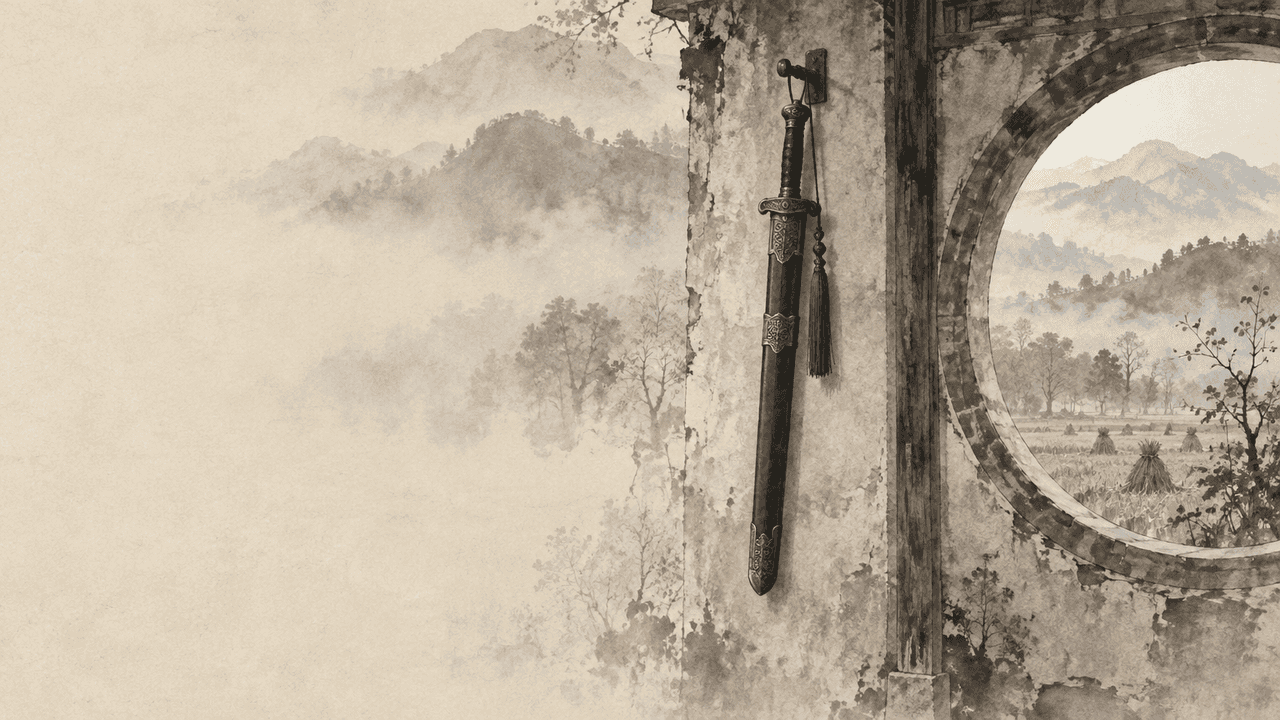
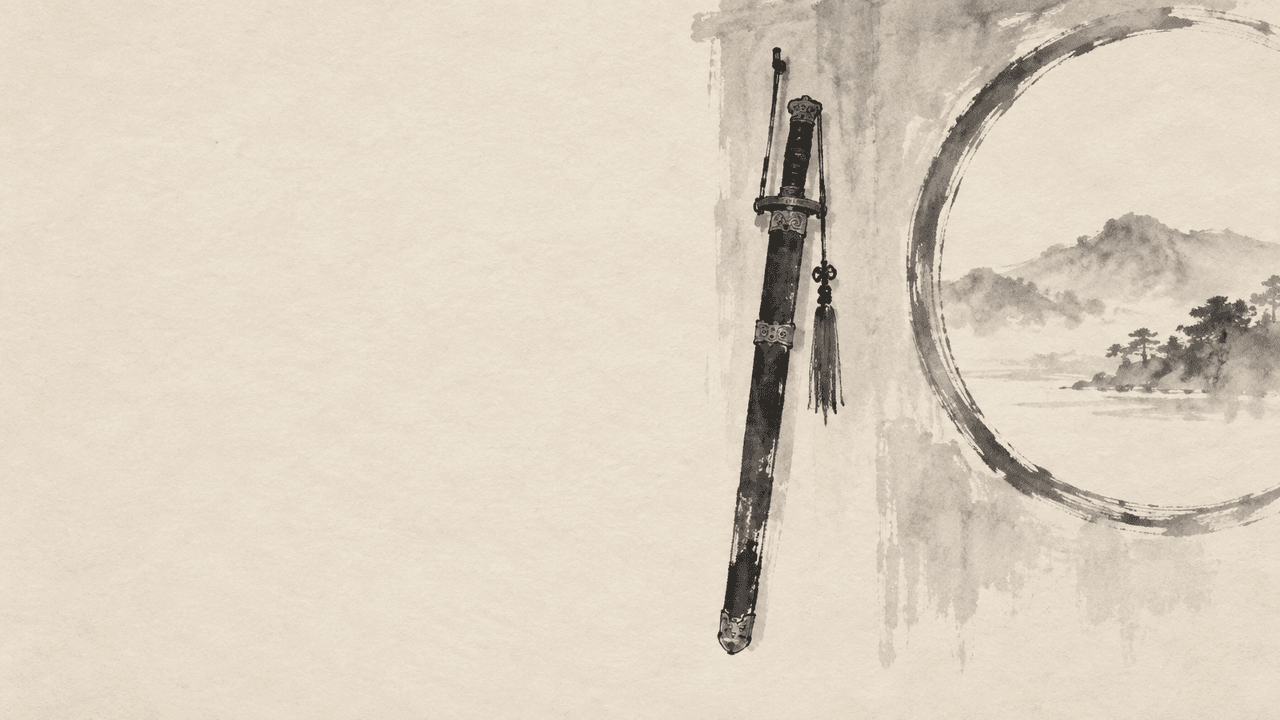
Day Master page: the 30 D1-D3 paintings (F2 xieyi), set into the cards' paper
All ten stems painted at F2 (owner ruling on the Blade fidelity test). Masters
in Design/Assets/DayMaster (README), app copies in concept-arts/stems/dm under
300 KB each. InkArt multiplies each painting onto the cardstock after lifting
its paper to white, with masked edges: D1 bleeds off the top of The sign, D2 is
a column the nature text flows around, D3 closes the edge card. Dev only.

Claude-Session: https://claude.ai/code/session_01RJRm3y3yvdzEnvZoX5yTx7

diff --git a/Elementum_App/src/components/journey/MergedViews.jsx b/Elementum_App/src/components/journey/MergedViews.jsx
@@ -49,7 +49,9 @@ export const plateOf = (stem) => `/concept-arts/stems/proc/${STEM_PY[stem]}-${ST
 
 // The Day Master journey's art slots (A1–A4 A, 2026-10-27): D1–D3 per stem and
 // the 25 pair paintings (N1 brief). Each renders its file by path once it lands
-// and is a quiet frame until then.
+// and is a quiet frame until then. D1–D3 are painted (F2 xieyi, 2026-10-27) and
+// sit in the card's paper (InkArt): multiplied onto the cardstock, edges masked,
+// D1 bleeding off the top, D2 a column the text flows around, D3 closing the card.
 const dmArt = (stem, n) => `/concept-arts/stems/dm/${STEM_PY[stem]}-d${n}.png`;
 const pairArt = (stem, el) => `/concept-arts/pairs/pair_${STEM_ELK[stem]}_${el}.png`;
 function ArtSlot({ src, ratio, label }) {
@@ -59,6 +61,12 @@ function ArtSlot({ src, ratio, label }) {
       {miss ? <span className="dmp-artl">{label}</span> : <img src={src} alt="" loading="lazy" onError={() => setMiss(true)} />}
     </span>
   );
+}
+
+function InkArt({ src, kind }) {
+  const [miss, setMiss] = useState(false);
+  if (miss) return null;
+  return <img className={`dmp-ink ${kind}`} src={src} alt="" loading="lazy" onError={() => setMiss(true)} />;
 }
 
 function TyChip({ k, cls = '', doors, stamp, children }) {
@@ -101,15 +109,17 @@ export function DayMasterPage({ m, g, dm, Use, InkDot, onRun, onCircle, onReplay
         {m.manifesto ? <p className="dmp-mani">{m.manifesto}</p> : null}
       </div>
       {dm.overview ? (
-        <div className="cardstock dmp-sec"><span className="mg-lab">The sign</span><ArtSlot src={dmArt(m.stem, 1)} ratio="16 / 9" label="D1 · the sign" /><p className="dmp-body">{dm.overview}</p></div>
+        <div className="cardstock dmp-sec dmp-inked"><InkArt src={dmArt(m.stem, 1)} kind="sign" /><span className="mg-lab">The sign</span><p className="dmp-body">{dm.overview}</p></div>
       ) : null}
       {dm.nature || dm.inscription ? (
         <div className="cardstock dmp-sec">
           <span className="mg-lab">Your nature</span>
-          <ArtSlot src={dmArt(m.stem, 2)} ratio="4 / 5" label="D2 · your nature" />
-          {/* the inscription opens the portrait (owner 2026-10-27: "What people notice is just an opener to Your Nature") */}
-          {dm.inscription ? <p className="dmp-ins">{dm.inscription}</p> : null}
-          {dm.nature ? <p className="dmp-body">{dm.nature}</p> : null}
+          {/* the inscription opens the portrait (owner 2026-10-27: "What people notice is just an opener to Your Nature"); the D2 column floats beside both */}
+          <div className="dmp-flow">
+            <InkArt src={dmArt(m.stem, 2)} kind="nature" />
+            {dm.inscription ? <p className="dmp-ins">{dm.inscription}</p> : null}
+            {dm.nature ? <p className="dmp-body">{dm.nature}</p> : null}
+          </div>
           {dm.claims?.length ? <><span className="mg-lab dmp-sub">What people notice</span><ul className="dmp-claims">{dm.claims.map((c) => <li key={c}>{c}</li>)}</ul></> : null}
         </div>
       ) : null}
@@ -149,7 +159,7 @@ export function DayMasterPage({ m, g, dm, Use, InkDot, onRun, onCircle, onReplay
         </div>
       ) : null}
       {dm.edge ? (
-        <div className="cardstock dmp-sec"><span className="mg-lab">How your edge is built</span><ArtSlot src={dmArt(m.stem, 3)} ratio="1 / 1" label="D3 · your edge" /><p className="dmp-body">{dm.edge}</p></div>
+        <div className="cardstock dmp-sec dmp-inked"><span className="mg-lab">How your edge is built</span><p className="dmp-body">{dm.edge}</p><InkArt src={dmArt(m.stem, 3)} kind="edge" /></div>
       ) : null}
       {t ? (
         <div className="cardstock dmp-sec">

diff --git a/Elementum_App/src/components/journey/merged.css b/Elementum_App/src/components/journey/merged.css
@@ -287,3 +287,25 @@ button.ty-cc{ cursor:pointer; }
 .jny .dmp-ftx .dmp-art{ max-width:220px; margin:4px 0 4px; }
 .jny .dmp-go{ width:14px; height:14px; margin-left:auto; align-self:center; color:var(--bronzeDark); flex:none; }
 .jny .dmp-fey{ display:flex; align-items:center; gap:6px; }
+
+/* The painted Day Master journey (F2 xieyi, owner 2026-10-27): each painting
+   sits in the card's own paper. Multiply drops the painting's rice paper into
+   the cardstock so only the ink shows; masks dissolve every edge. */
+.jny .dmp-ink{ display:block; mix-blend-mode:multiply; pointer-events:none; user-select:none; filter:brightness(1.14) contrast(1.18) saturate(1.1); }
+/* the filter lifts the painting's paper to white before the multiply, so the card's own paper shows through and only the ink lands */
+.jny .dmp-inked{ overflow:hidden; }
+/* D1 the sign: bleeds off the card's top and sides, the label and text begin in its fading foot */
+.jny .dmp-ink.sign{ width:calc(100% + 30px); max-width:none; aspect-ratio:16 / 9; object-fit:cover; margin:-14px -15px -38px; border-radius:16px 16px 0 0;
+  -webkit-mask-image:linear-gradient(to bottom,#000 52%,transparent 96%); mask-image:linear-gradient(to bottom,#000 52%,transparent 96%); }
+.jny .dmp-inked > .mg-lab{ position:relative; }
+/* D2 your nature: a tall column off the card's right edge, the inscription and the portrait flowing around it */
+.jny .dmp-flow{ display:block; }
+.jny .dmp-flow::after{ content:""; display:block; clear:both; }
+.jny .dmp-flow > p + p{ margin-top:8px; }
+.jny .dmp-ink.nature{ float:right; width:46%; aspect-ratio:4 / 5; object-fit:cover; margin:-6px -15px 4px 10px; shape-outside:inset(0 0 0 14%);
+  -webkit-mask-image:linear-gradient(to left,#000 62%,transparent),linear-gradient(to top,transparent 2%,#000 30%); -webkit-mask-composite:source-in;
+  mask-image:linear-gradient(to left,#000 62%,transparent),linear-gradient(to top,transparent 2%,#000 30%); mask-composite:intersect; }
+/* D3 your edge: closes the card, rising out of the bottom-right corner under the last line */
+.jny .dmp-ink.edge{ align-self:flex-end; width:60%; aspect-ratio:1 / 1; object-fit:cover; margin:-18px -15px -14px 0; border-radius:0 0 16px 0;
+  -webkit-mask-image:linear-gradient(to bottom,transparent 2%,#000 34%),linear-gradient(to right,transparent 2%,#000 36%); -webkit-mask-composite:source-in;
+  mask-image:linear-gradient(to bottom,transparent 2%,#000 34%),linear-gradient(to right,transparent 2%,#000 36%); mask-composite:intersect; }

diff --git a/Design/Library/Design_Pass_2026-10/D1-D3_Day_Master_Illustrations_Brief.md b/Design/Library/Design_Pass_2026-10/D1-D3_Day_Master_Illustrations_Brief.md
@@ -70,3 +70,13 @@ Shared prompt prefix: the N1 prefix, with `{RATIO}` in place of "3:2 landscape" 
 ## Test paintings (2026-10-27)
 
 The owner asked for real paintings in place of the tinted frames. A test of 庚 (D-geng-1, 2, 3) was painted with Figma's image generator, model gpt-image-2.5-sunburst. That model matched the house heroes; gemini-3.1-flash-image gave a flat pen sketch. The test is in `public/concept-arts/stems/dm/geng-d{1,2,3}.png`, cover-cropped to spec and palette-compressed under 300 KB. The Figma file is "Elementum · Day Master illustrations (D1–D3)". The prompt adds to the N1 prefix: "masterful … rich layered ink, dark confident strokes for the subject, pale washes and drifting mist, dry-brush texture … museum-quality".
+
+## Painted (2026-10-27): all 30 at F2
+
+The owner compared four fidelity levels on the Blade (F0 detailed, F1 loose brush, F2 xieyi freehand, F3 Zen minimal) and ruled **F2**, then "paint the rest". All 30 are painted with gpt-image-2.5-sunburst, using this prefix:
+
+> Traditional Chinese xieyi freehand ink painting on plain warm rice paper: spontaneous, expressive brushwork, each form suggested in a few bold strokes, ink bleeding softly into the paper, dry-brush flicks, large areas of untouched paper. Black-and-grey ink with a single faint wash of {pale element colour}. {Wide landscape, one-corner composition | Tall portrait | Square}, subject off-centre, most of the paper empty. Subject: {subject}. No people, no text, no calligraphy, no seal, no border.
+
+- **Masters:** `Design/Assets/DayMaster/` (README there).
+- **App copies:** `Elementum_App/public/concept-arts/stems/dm/`.
+- **Known weak painting:** D-geng-3. The branch only touches the blade's tip instead of bowing against its edge. It took two tries, and a repaint is open.

diff --git a/Design/Assets/DayMaster/README.md b/Design/Assets/DayMaster/README.md
@@ -1,0 +1,16 @@
+# Day Master page paintings (D1–D3 × 10 stems)
+
+The 30 painted masters for the Day Master reading page, one set of three per Day Master stem. Painted 2026-10-27 at fidelity F2 (xieyi freehand), as ruled by the owner on the Blade Fidelity comparison.
+
+| File | Card on the page | Ratio | From the station field |
+|---|---|---|---|
+| `dm-{py}-d1.jpg` | 2 · The sign | 16:9 | `dm_overview` |
+| `dm-{py}-d2.jpg` | 3 · Your nature | 4:5 | `inscription` and `yourNature_desc` |
+| `dm-{py}-d3.jpg` | 5 · How your edge is built | 1:1 | `dm_mechanism` |
+
+`{py}` is the stem's pinyin: jia 甲, yi 乙, bing 丙, ding 丁, wu 戊, ji 己, geng 庚, xin 辛, ren 壬, gui 癸.
+
+- **These are masters**, at the size the model painted them (1536×864, 1024×1280, 1024×1024), saved as JPG at quality 90. The lossless originals are in the Figma file "Elementum · Day Master illustrations (D1–D3)".
+- **The app copies** are in `Elementum_App/public/concept-arts/stems/dm/{py}-d{n}.png`. They are cover-cropped to 1280×720, 880×1100 and 1000×1000, and palette-compressed under 300 KB each. Regenerate them from these masters, never by editing them in place.
+- **Subjects and prompts** are in `Design/Library/Design_Pass_2026-10/D1-D3_Day_Master_Illustrations_Brief.md`.
+- **How the page uses them** (`InkArt` in `MergedViews.jsx`, `.dmp-ink` in `merged.css`): each painting is multiplied onto the cardstock after a filter lifts its paper to white, so only the ink lands on the card. Masks dissolve every edge. D1 bleeds off the top of its card, D2 is a column the text flows around, and D3 closes its card from the bottom-right corner.

diff --git a/Design/Documents/DES_14_Asset_Map_Concept_Arts.md b/Design/Documents/DES_14_Asset_Map_Concept_Arts.md
@@ -119,6 +119,7 @@ The "_Icon", "_Icons", "_icons", "Jewel_Icons", "Blade_Icon" PNG sets inside eac
 - `concept-arts/atmospheric/` — both depth maps. ✓
 - `concept-arts/stems/` — all 10 raw stem paintings, plus `concept-arts/stems/proc/` — the 10 processed stem medallions (`{stem}-{element}.png`), read by `JourneyStage.jsx` (`paintSrc`, the `stems/proc` medallion). ✓
 - `concept-arts/dots/` — the 5 per-element dot-ink marks (`dotf-{el}.png`). ✓
+- `concept-arts/stems/dm/` — the 30 Day Master page paintings (`{py}-d{1,2,3}.png`, D1 the sign · D2 your nature · D3 your edge), painted 2026-10-27 at F2 xieyi. Masters in `Design/Assets/DayMaster/` (README there). Read by `InkArt` in `MergedViews.jsx`. ✓
 - `Stem Thumbnail/` — **`Geng_TheBlade.png` only** (1 of 10 stems). ✗ 9 missing.
 - `backgrounds/` — 24 PNGs, but **only ~5 are finished painted art** (reveal · onboarding · energymap · reading rice-paper); **8 are "PLACEHOLDER" spec cards** that bleed text and are replaced by CSS gradients in `SCREEN_BG`.
 
